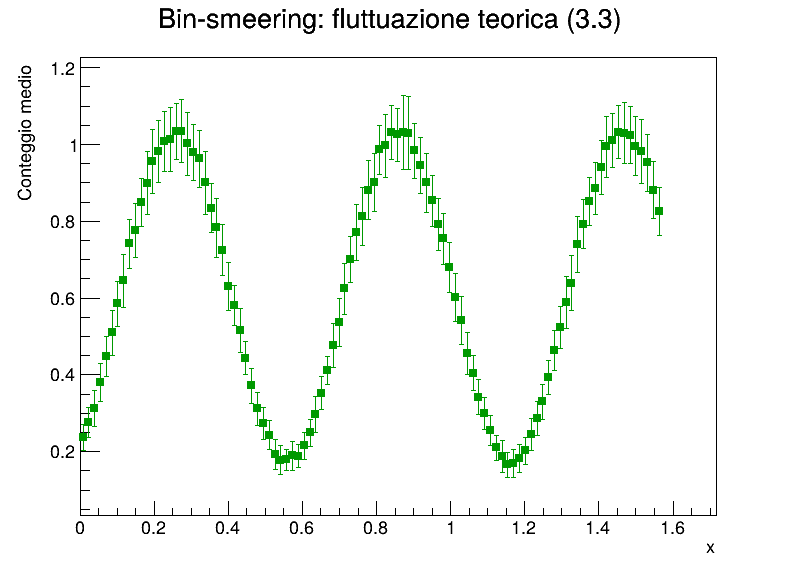
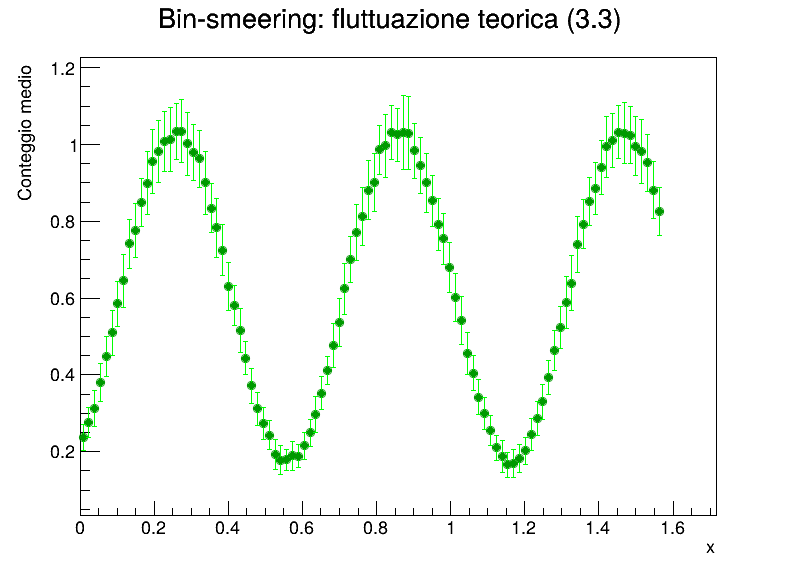
ciaoooo

diff --git a/mcgenerator.cpp b/mcgenerator.cpp
@@ -23,15 +23,15 @@ MCgenerator::MCgenerator(int N_val, int Bins_val, double k_val, double teta_val,
       x_min(x_min_val),
       x_max(x_max_val),
       h(nullptr) {
-  // imposto inceretzze sistematiche
-  dk = 0.02 * k;
-  dteta = 0.05 * teta;
-  db = 0.01 * b;
-
   function =
       new TF1("myFunc", "TMath::Power(TMath::Cos([0] * x + [1]), 2) + [2]",
               x_min, x_max);
   function->SetParameters(k, teta, b);
+
+  // imposto inceretzze sistematiche
+  dk = 0.02 * k;
+  dteta = 0.05 * teta;
+  db = 0.01 * b;
 }
 
 // distruttore
@@ -89,34 +89,14 @@ TGraphErrors* MCgenerator::GraphMeanWithError(int N_replicas) {
       bins[i].push_back(h_replica->GetBinContent(i + 1));
   }
 
-  std::vector<double> x(Bins), y(Bins), ex(Bins, 0), ey(Bins);
-  double bin_width = (x_max - x_min) / Bins;
-
-  for (int i = 0; i < Bins; ++i) {
-    double sum = 0, sum2 = 0;
-    for (double v : bins[i]) {
-      sum += v;
-      sum2 += v * v;
-    }
-
-    double mean = sum / N_replicas;
-    double stddev = std::sqrt(sum2 / N_replicas - mean * mean);
-
-    x[i] = h->GetBinCenter(i + 1);
-    y[i] = mean;
-    ey[i] = stddev;
-  }
-  // crea grafico
-  auto* graph = new TGraphErrors(Bins, &x[0], &y[0], &ex[0], &ey[0]);
-  graph->SetTitle("Incertezza da Rigenerazione (3.2); x; PDF media");
-  graph->SetMarkerStyle(20);
-  graph->SetLineColor(kBlue + 2);
-  return graph;
+  return CreateGraph(bins, x_min, x_max, Bins,
+                     "Incertezza da Rigenerazione (3.2); x; PDF media", 20,
+                     kBlue);
 }
 
 // pto 3.3
 TGraphErrors* MCgenerator::GraphBinSmeering(int N_replicas) {
-  std::vector<std::vector<double>> bins(Bins);
+  std::vector<std::vector<double>> bins_smeared(Bins);
   double bin_width = (x_max - x_min) / Bins;
   // usiamo la funzione già normalizzata per il valore teorico
   TF1* f_norm = GetNormalizedFunction(k, teta, b, x_min, x_max);
@@ -128,41 +108,24 @@ TGraphErrors* MCgenerator::GraphBinSmeering(int N_replicas) {
       // calcolo incertezza statistica attesa per la pdf
       double sigma_stat_pdf = 0.0;
       if (val > 0) {  // evita la divisione per zero o sqrt di negativi
-        sigma_stat_pdf =
-            std::sqrt(val / (N * bin_width));  // l'inceretzza statistica
+        sigma_stat_pdf = std::sqrt(
+            val / (N * bin_width));  // l'inceretzza statistica è la dev std
       }
 
       // fluttua il valore teorico (val) con la sua incertezza statistica
       // (sigma)
       double smeared = gRandom->Gaus(val, sigma_stat_pdf);
-      bins[i].push_back(smeared);
+      bins_smeared[i].push_back(smeared);
     }
   }
 
   delete f_norm;  // pulizia (allocazione dinamica nel metodo
                   // GetNormalizedFunction())
 
-  std::vector<double> x(Bins), y(Bins), ex(Bins, 0), ey(Bins);
-
-  for (int i = 0; i < Bins; ++i) {
-    double sum = 0, sum2 = 0;
-    for (double v : bins[i]) {
-      sum += v;
-      sum2 += v * v;
-    }
-    double mean = sum / N_replicas;
-    double stddev = std::sqrt(sum2 / N_replicas - mean * mean);
-
-    x[i] = x_min + (i + 0.5) * bin_width;
-    y[i] = mean;
-    ey[i] = stddev;
-  }
-  auto* graph = new TGraphErrors(Bins, &x[0], &y[0], &ex[0], &ey[0]);
-  graph->SetTitle(
-      "Bin-smeering: fluttuazione teorica (3.3); x; Conteggio medio");
-  graph->SetMarkerStyle(21);
-  graph->SetLineColor(kGreen + 2);
-  return graph;
+  return CreateGraph(
+      bins_smeared, x_min, x_max, Bins,
+      "Bin-smeering: fluttuazione teorica (3.3); x; Conteggio medio", 20,
+      kGreen);
 }
 
 // pto 4 (metodo 3.2)
@@ -170,61 +133,34 @@ TGraphErrors* MCgenerator::GraphParamUncertainty_32(int N_replicas) {
   std::vector<std::vector<double>> bins(Bins);
   TRandom3 rnd(0);
 
-  double dk = 0.02 * k;
-  double dteta = 0.05 * teta;
-  double db = 0.01 * b;
-
   for (int r = 0; r < N_replicas; ++r) {
     // fluttua i parametri
     double k_smeared = rnd.Gaus(k, dk);
     double teta_smeared = rnd.Gaus(teta, dteta);
     double b_smeared = rnd.Gaus(b, db);
 
-    // crea replica con parametri fluttuati
-    MCgenerator replica(N, Bins, k_smeared, teta_smeared, b_smeared, x_min,
-                        x_max);
-    replica.CreateHistogram();
-    replica.Fillh();
-    TH1D* h_replica = replica.GetHistogram();
+    // crea replica della funzione con parametri fluttuati
+    MCgenerator replica2(N, Bins, k_smeared, teta_smeared, b_smeared, x_min,
+                         x_max);
+    replica2.CreateHistogram();
+    replica2.Fillh();
+    TH1D* h_replica2 = replica2.GetHistogram();
 
     // store results (normalized)
-    double integral = h_replica->Integral("width");
+    double integral = h_replica2->Integral("width");
     if (integral == 0) integral = 1;
-    h_replica->Scale(1.0 / integral);
+    h_replica2->Scale(1.0 / integral);
 
     for (int i = 0; i < Bins; ++i) {
-      bins[i].push_back(h_replica->GetBinContent(i + 1));
+      bins[i].push_back(h_replica2->GetBinContent(i + 1));
     }
   }
-
-  // calcola media e stddev
-  std::vector<double> x(Bins), y(Bins), ex(Bins, 0), ey(Bins);
-  double bin_width = (x_max - x_min) / Bins;
-
-  for (int i = 0; i < Bins; ++i) {
-    double sum = 0, sum2 = 0;
-    for (double v : bins[i]) {
-      sum += v;
-      sum2 += v * v;
-    }
-    double mean = sum / N_replicas;
-    double stddev = std::sqrt(sum2 / N_replicas - mean * mean);
-
-    x[i] = x_min + (i + 0.5) * bin_width;
-    y[i] = mean;
-    ey[i] = stddev;  // incertezza propagata
-  }
-
-  auto* graph = new TGraphErrors(Bins, &x[0], &y[0], &ex[0], &ey[0]);
-  graph->SetTitle("Prop. Parametri (Rigenerazione, 4a); x; PDF");
-  graph->SetMarkerStyle(20);
-  graph->SetLineColor(kRed + 2);
-
-  return graph;
+  return CreateGraph(bins, x_min, x_max, Bins,
+                     "Prop. Parametri (Rigenerazione, 4a); x; PDF", 20, kRed);
 }
 
 TGraphErrors* MCgenerator::GraphParamUncertainty_33(int N_replicas) {
-  std::vector<std::vector<double>> bins(Bins);
+  std::vector<std::vector<double>> bins_smeared(Bins);
   TRandom3 rnd(0);
 
   for (int r = 0; r < N_replicas; ++r) {
@@ -241,35 +177,12 @@ TGraphErrors* MCgenerator::GraphParamUncertainty_33(int N_replicas) {
     for (int i = 0; i < Bins; ++i) {
       double x_val = x_min + (i + 0.5) * (x_max - x_min) / Bins;
       double val = temp_func->Eval(x_val);  // valore al centro del bin
-      bins[i].push_back(val);  // vettore con valori al centro del bin
+      bins_smeared[i].push_back(val);  // vettore con valori al centro del bin
     }
     delete temp_func;
   }
-
-  // calcola media e stddev
-  std::vector<double> x(Bins), y(Bins), ex(Bins, 0), ey(Bins);
-  double bin_width = (x_max - x_min) / Bins;
-
-  for (int i = 0; i < Bins; ++i) {
-    double sum = 0, sum2 = 0;
-    for (double v : bins[i]) {
-      sum += v;  // somma dei valori nelle varie generazioni nel bin i
-      sum2 += v * v;
-    }
-    double mean = sum / N_replicas;
-    double stddev = std::sqrt(sum2 / N_replicas - mean * mean);
-
-    x[i] = x_min + (i + 0.5) * bin_width;
-    y[i] = mean;
-    ey[i] = stddev;  // incertezza propagata
-  }
-
-  auto* graph = new TGraphErrors(Bins, &x[0], &y[0], &ex[0], &ey[0]);
-  graph->SetTitle("Prop. Parametri (Smeering, 4b); x; PDF");
-  graph->SetMarkerStyle(21);
-  graph->SetLineColor(kMagenta + 2);
-
-  return graph;
+  return CreateGraph(bins_smeared, x_min, x_max, Bins,
+                     "Prop. Parametri (Smeering, 4b); x; PDF", 20, kMagenta);
 }
 
 void MCgenerator::DrawFunction(const char* filename) const {

diff --git a/functions.cpp b/functions.cpp
@@ -2,27 +2,33 @@
 
 #include "mcgenerator.hpp"
 
-/*Stats CalculateStats(int Bins, const std::vector<double>& bin_data, size_t n_replicas) {
-  // calcola media e stddev
+TGraphErrors* CreateGraph(const std::vector<std::vector<double>>& bin_values,
+                          double x_min, double x_max, int Bins,
+                          const char* title, int marker_style, int line_color) {
   std::vector<double> x(Bins), y(Bins), ex(Bins, 0), ey(Bins);
-  double bin_width = (0.5 * TMath::Pi()) / Bins;
+  double bin_width = (x_max - x_min) / Bins;
 
   for (int i = 0; i < Bins; ++i) {
     double sum = 0, sum2 = 0;
-    for (double v : bin_data) {
-      sum += v;  // somma dei valori nelle varie generazioni nel bin i
+    for (double v : bin_values[i]) {
+      sum += v;
       sum2 += v * v;
     }
-    double mean = sum / n_replicas;
-    double stddev = std::sqrt(sum2 / n_replicas - mean * mean);
+    double mean = sum / bin_values[i].size();
+    double stddev = std::sqrt(sum2 / bin_values[i].size() - mean * mean);
 
-    x[i] = (i + 0.5) * bin_width;
+    x[i] = x_min + (i + 0.5) * bin_width;
     y[i] = mean;
-    ey[i] = stddev;  // incertezza propagata
+    ey[i] = stddev;
   }
 
-return Stats;
-}*/
+  auto* graph = new TGraphErrors(Bins, &x[0], &y[0], &ex[0], &ey[0]);
+  graph->SetTitle(title);
+  graph->SetMarkerStyle(marker_style);
+  graph->SetLineColor(line_color);
+  return graph;
+}
+
 // funzione x normalizzare
 TF1* GetNormalizedFunction(double k, double teta, double b, double x_min,
                            double x_max) {
@@ -49,8 +55,6 @@ TF1* GetNormalizedFunction(double k, double teta, double b, double x_min,
   f_norm->SetLineColor(kRed);
   return f_norm;
 }
-
-
 
 /*double GetRMSD() const {
   double sum = 0.0;

diff --git a/functions.hpp b/functions.hpp
@@ -5,13 +5,14 @@
 #include <TMath.h>
 
 #include <string>
+#include <vector>
 
-struct Stats {
-  double mean;
-  double stddev;
-};
+#include "TGraphErrors.h"
 
-//Stats CalculateStats(const std::vector<double>& bin_data, size_t n_replicas);
+TGraphErrors* CreateGraph(const std::vector<std::vector<double>>& bin_values,
+                          double x_min, double x_max, int Bins,
+                          const char* title, int marker_style, int line_color);
+
 TF1* GetNormalizedFunction(double k, double teta, double b, double x_min,
                            double x_max);
 

diff --git a/mcgenerator.hpp b/mcgenerator.hpp
@@ -43,9 +43,7 @@ class MCgenerator {
 
   ~MCgenerator();            // distruttore
 
-  
-  TF1* GetFunction() const;  // per accedere alla funione private da fuori,
-                             // forse è superfluo...
+  TF1* GetFunction() const;  // per accedere alla funione private da fuori
   void CreateHistogram(const char* name = "h", const char* title = "myHisto");
   TH1D* GetHistogram() const;  // per accedere all'istogramma
   TH1D* Fillh();               // riempe istogramma

diff --git a/README.md b/README.md
@@ -1,5 +1,8 @@
 # root-labs
 
+per compilare g++ main.cpp mcgenerator.cpp functions.cpp `root-config --cflags --libs` -o runMC
+per eseguire ./runMC
+
 nel metodo drawfunction l'obbiettivo è generare dopo aver generato un istogramma con MC sovrapporlo alla funzione teorica-> devono avere la stessa scala (stessa area sotto la curvatura)
 1. è normalizzato l'istogramma a 1
 2. creo funzione teorica f_norm
@@ -12,7 +15,10 @@ nel metodo drawfunction l'obbiettivo è generare dopo aver generato un istogramm
 da fare
 - aggiungere alla "legenda" lo scarto quadratico medio
 - creare file con funzioni media, dev std
-- vedi se da 4 metodi ne riesci a fare due (TGraphErrors* GraphMeanWithError(int N_replicas);
+- vedi se da 4 metodi ne riesci a fare due 
+  
+  // pto 3.2
+  (TGraphErrors* GraphMeanWithError(int N_replicas);
 
   // pto 3.3
   TGraphErrors* GraphBinSmeering(int N_replicas, double smear_fraction = 0.05);
